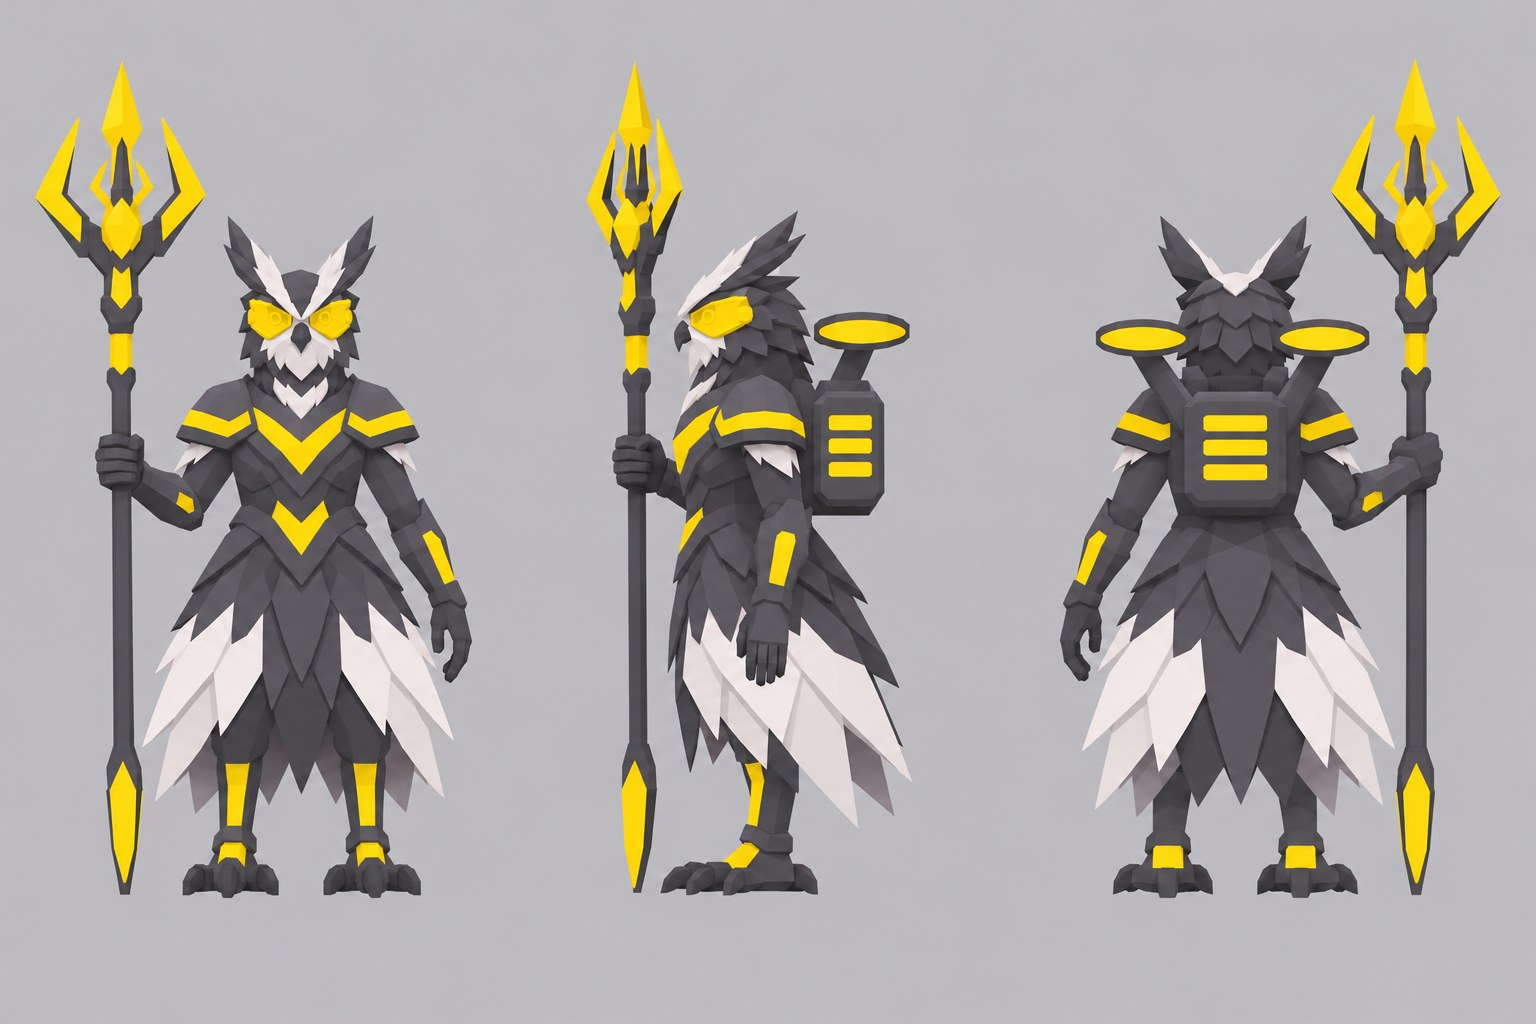
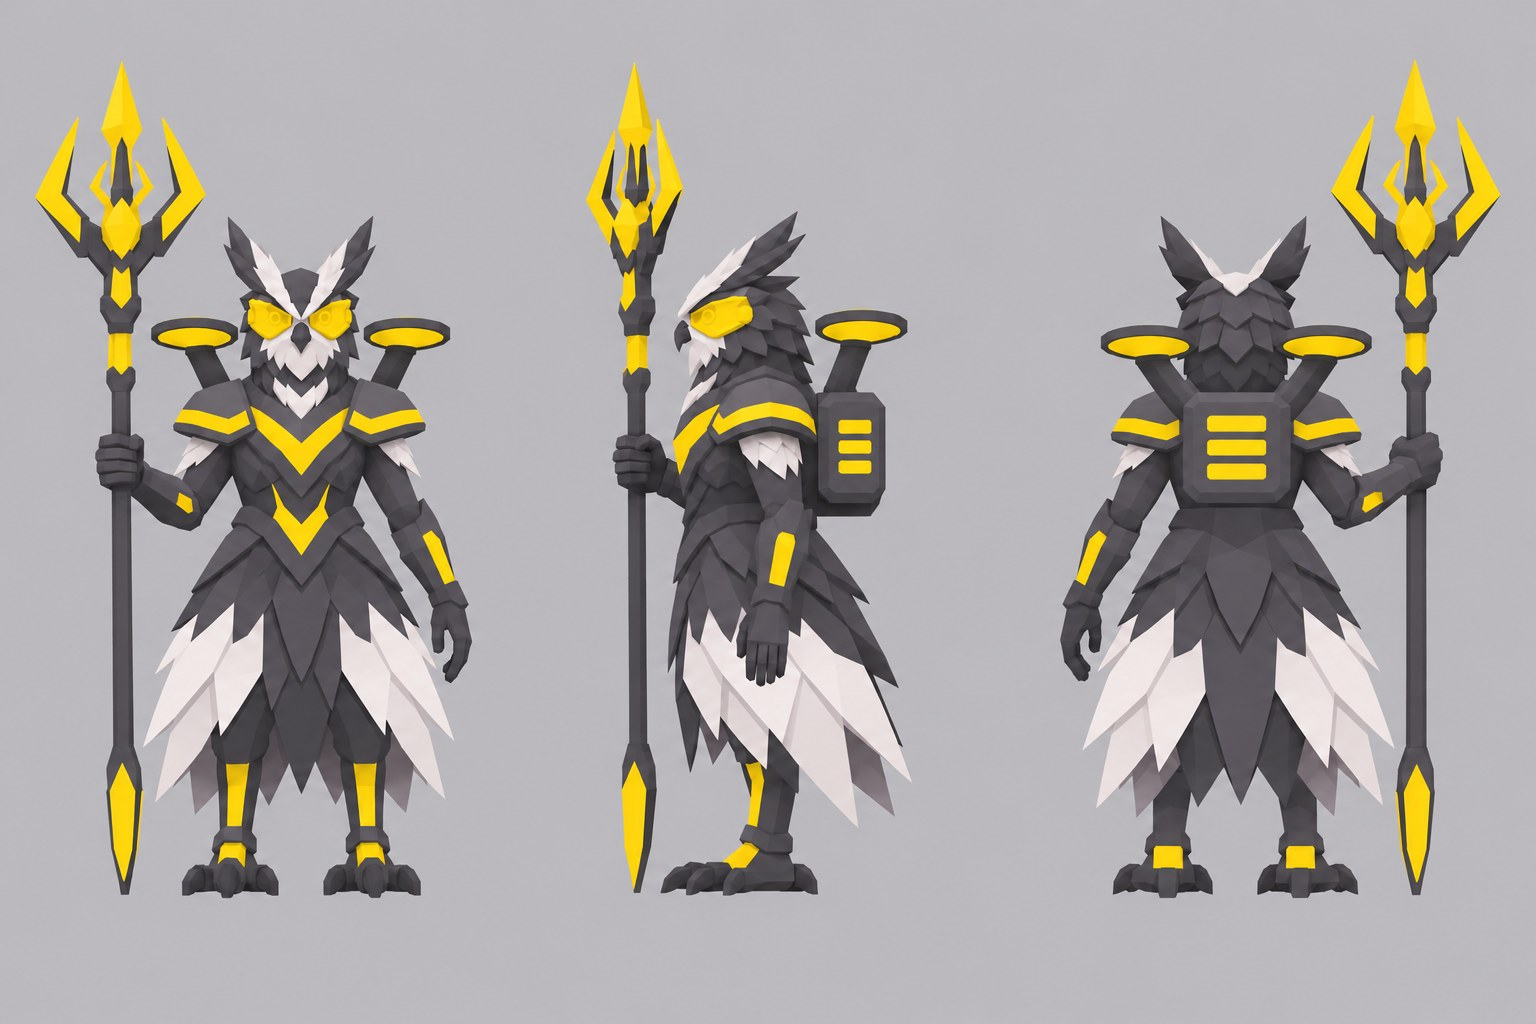
Four redrawn model sheets (round 5), awaiting review
Claude-Session: https://claude.ai/code/session_011tHXKAzD8HvWDijatPpkCi

diff --git a/rts/docs/art/concept/turnarounds5/README.md b/rts/docs/art/concept/turnarounds5/README.md
@@ -1,0 +1,28 @@
+<!-- rts/docs/art/concept/turnarounds5/README.md: results of the fifth set of model sheets, a redraw of four sheets after the third developer review of 16 Nov 2026 (front, side, back), checked against rts/docs/art/CONCEPT_BRIEF.md; images made by rts/tools/ConceptArt/generate.py. -->
+# Turnarounds 5
+
+Model for every shot: `gpt-image-2.6-sunburst`, size 1536x1024, edit endpoint, `quality: "high"`, same style text as turnarounds4. References: Marksman `turnarounds4/skai_marksman_sheet.jpg`; Water Worker `turnarounds4/water_worker_sheet.jpg`; Stormcaller `turnarounds2/skai_stormcaller_sheet.jpg`; Roc Rider only the original `round9/skai_air_units.jpg` (no turnarounds3 or turnarounds4 sheet). 5 image requests in total: 4 first attempts, then 1 regeneration (Stormcaller). PNG originals are kept outside the repository.
+
+Approximate x-ranges of the three views (front, side, back) in the 1536-pixel-wide image, for cropping (est. where views touch):
+
+| Shot id | Front | Side | Back |
+| --- | --- | --- | --- |
+| skai_marksman_sheet | 30-345 | 400-1035 (rifle included) | 1105-1515 |
+| skai_roc_rider_sheet | 10-510 | 495-1020 | 1030-1530 |
+| skai_stormcaller_sheet | 40-500 | 580-915 | 1060-1470 |
+| water_worker_sheet | 50-530 | 570-940 | 1010-1400 |
+
+| Shot id | File | Model | Result | Critique |
+| --- | --- | --- | --- | --- |
+| skai_marksman_sheet | skai_marksman_sheet.jpg | gpt-image-2.6-sunburst | pass | Rifle on the bird's right: muzzle offset to the viewer's left in front with the chest emblem clear, level in side view, rifle visible beside the body on the viewer's right in back view; two-handed. |
+| skai_roc_rider_sheet | skai_roc_rider_sheet.jpg | gpt-image-2.6-sunburst | pass (with reservation) | Same unit as round9 (see feature list in the report); vents and metal feathers added. Reservation: wings droop in front and back views as in the original, and the under-wing crystals are seen only in the front and back views. |
+| skai_stormcaller_sheet | skai_stormcaller_sheet.jpg | gpt-image-2.6-sunburst | pass | No hoses; two dishes on thick arms rising from the backpack, symmetrical, visible in all three views; plain identical shoulder plates; staff in the bird's right hand. |
+| water_worker_sheet | water_worker_sheet.jpg | gpt-image-2.6-sunburst | pass | Short hooked sea-green beak centred below the eyes in front and side views; mouth and siphon gone; no glass. |
+
+## Changed prompts
+
+Stormcaller, appended to change 2: "In the FRONT view the two dishes must be visible too: they rise on their arms from behind the shoulders to just above and beside the owl's head, one dish on each side of the head, so that the arm roots are hidden behind the owl but the dishes and the upper arms are seen, as in the reference sheet." Reason: the first attempt hid the dishes in the front view. `shots.json` holds the final prompts.
+
+## Tool changes
+
+None; `rts/tools/ConceptArt/generate.py` was used unchanged.

diff --git a/rts/docs/CHANGELOG.md b/rts/docs/CHANGELOG.md
@@ -27,6 +27,8 @@ All notable changes to this project are recorded here. The format follows [Keep 
 
 ### Added
 
+- `docs/art/models/batch1/`: heavier Pummeler model (kept sheet) and a first Thunderhead model that did not work from two edge-on views (2,590 Tripo credits left). `docs/art/concept/turnarounds5/`: four sheets redrawn after the third review (Talon Marksman with the rifle on its right side, Roc Rider redrawn from the original picture, Stormcaller with a tidier back unit, water worker with a beak).
+
 - `docs/art/models/batch1/`: models for the Tidecaller and Leviathan and a second Stormcaller (2,810 Tripo credits left). `docs/art/concept/turnarounds4/`: five sheets redrawn after the second review (Talon Marksman shouldering the rifle, Pummeler with heavier arms, water worker with a solid face, Roc Rider bigger with tucked legs and wing crystals, Thunderhead with its bird head). Kept so far as models: Skai worker, Spoutling.
 
 - Balance harness batch mode (Phase 2 step 5, spec `docs/specs/balance_harness.md`; Sim-side changes reviewed by the sim-reviewer): `--batch` runs N AI-versus-AI games per matchup per map in worker processes with derived seeds and writes `report.md`, `results.jsonl` and `hq_floor.jsonl`; win rate with a Wilson interval, match length, HQ time-to-kill, the hard limits, a determinism spot check, `--ci` and `--report-only`. New `tuning/harness_batch.json`, required by the loader but left out of the content digest so state hashes do not change. The skirmish AI no longer counts enemy workers as army power when deciding to retreat. First reduced batch: HQ survivability floor FAIL (6.6 s against 20 s), water-versus-earth cap DEFERRED.
